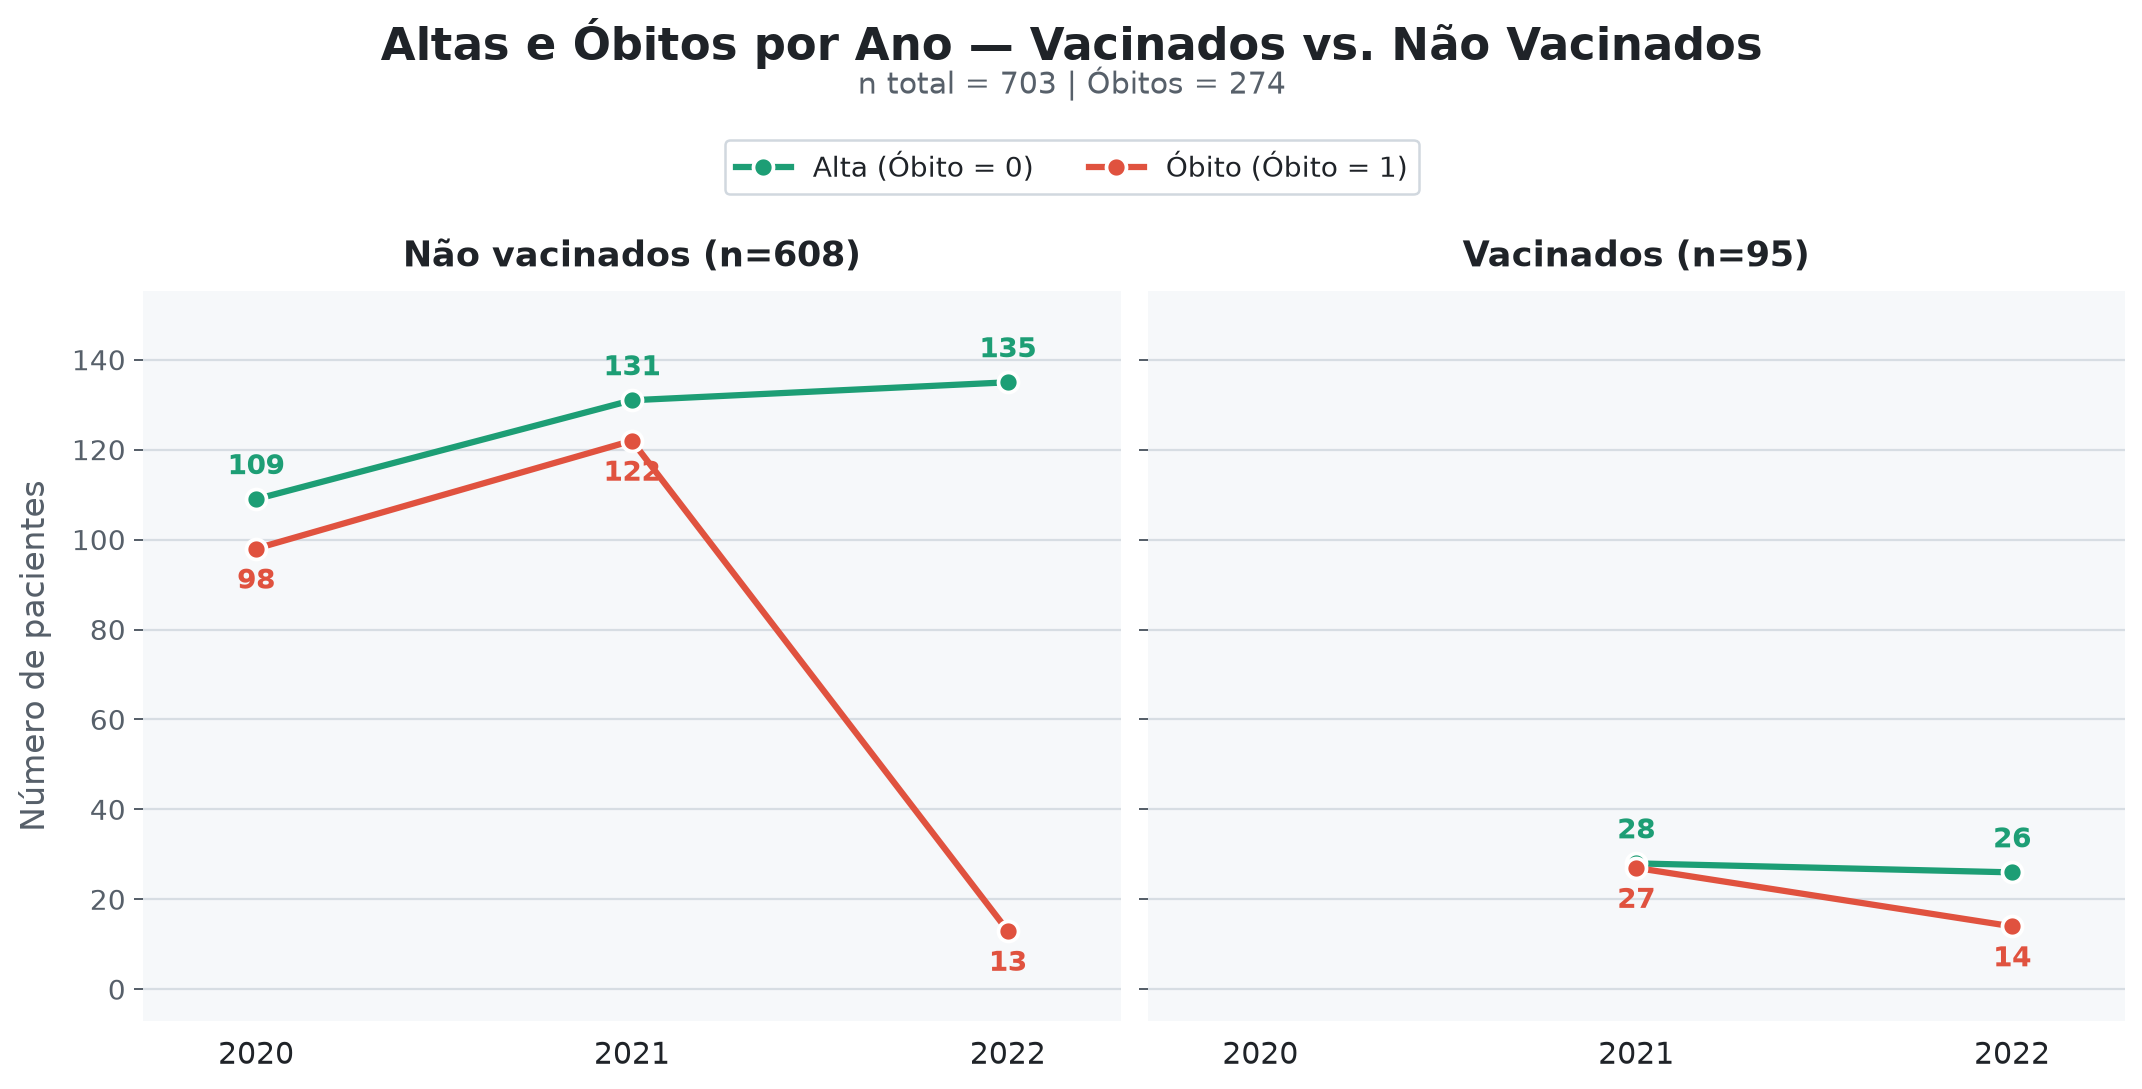
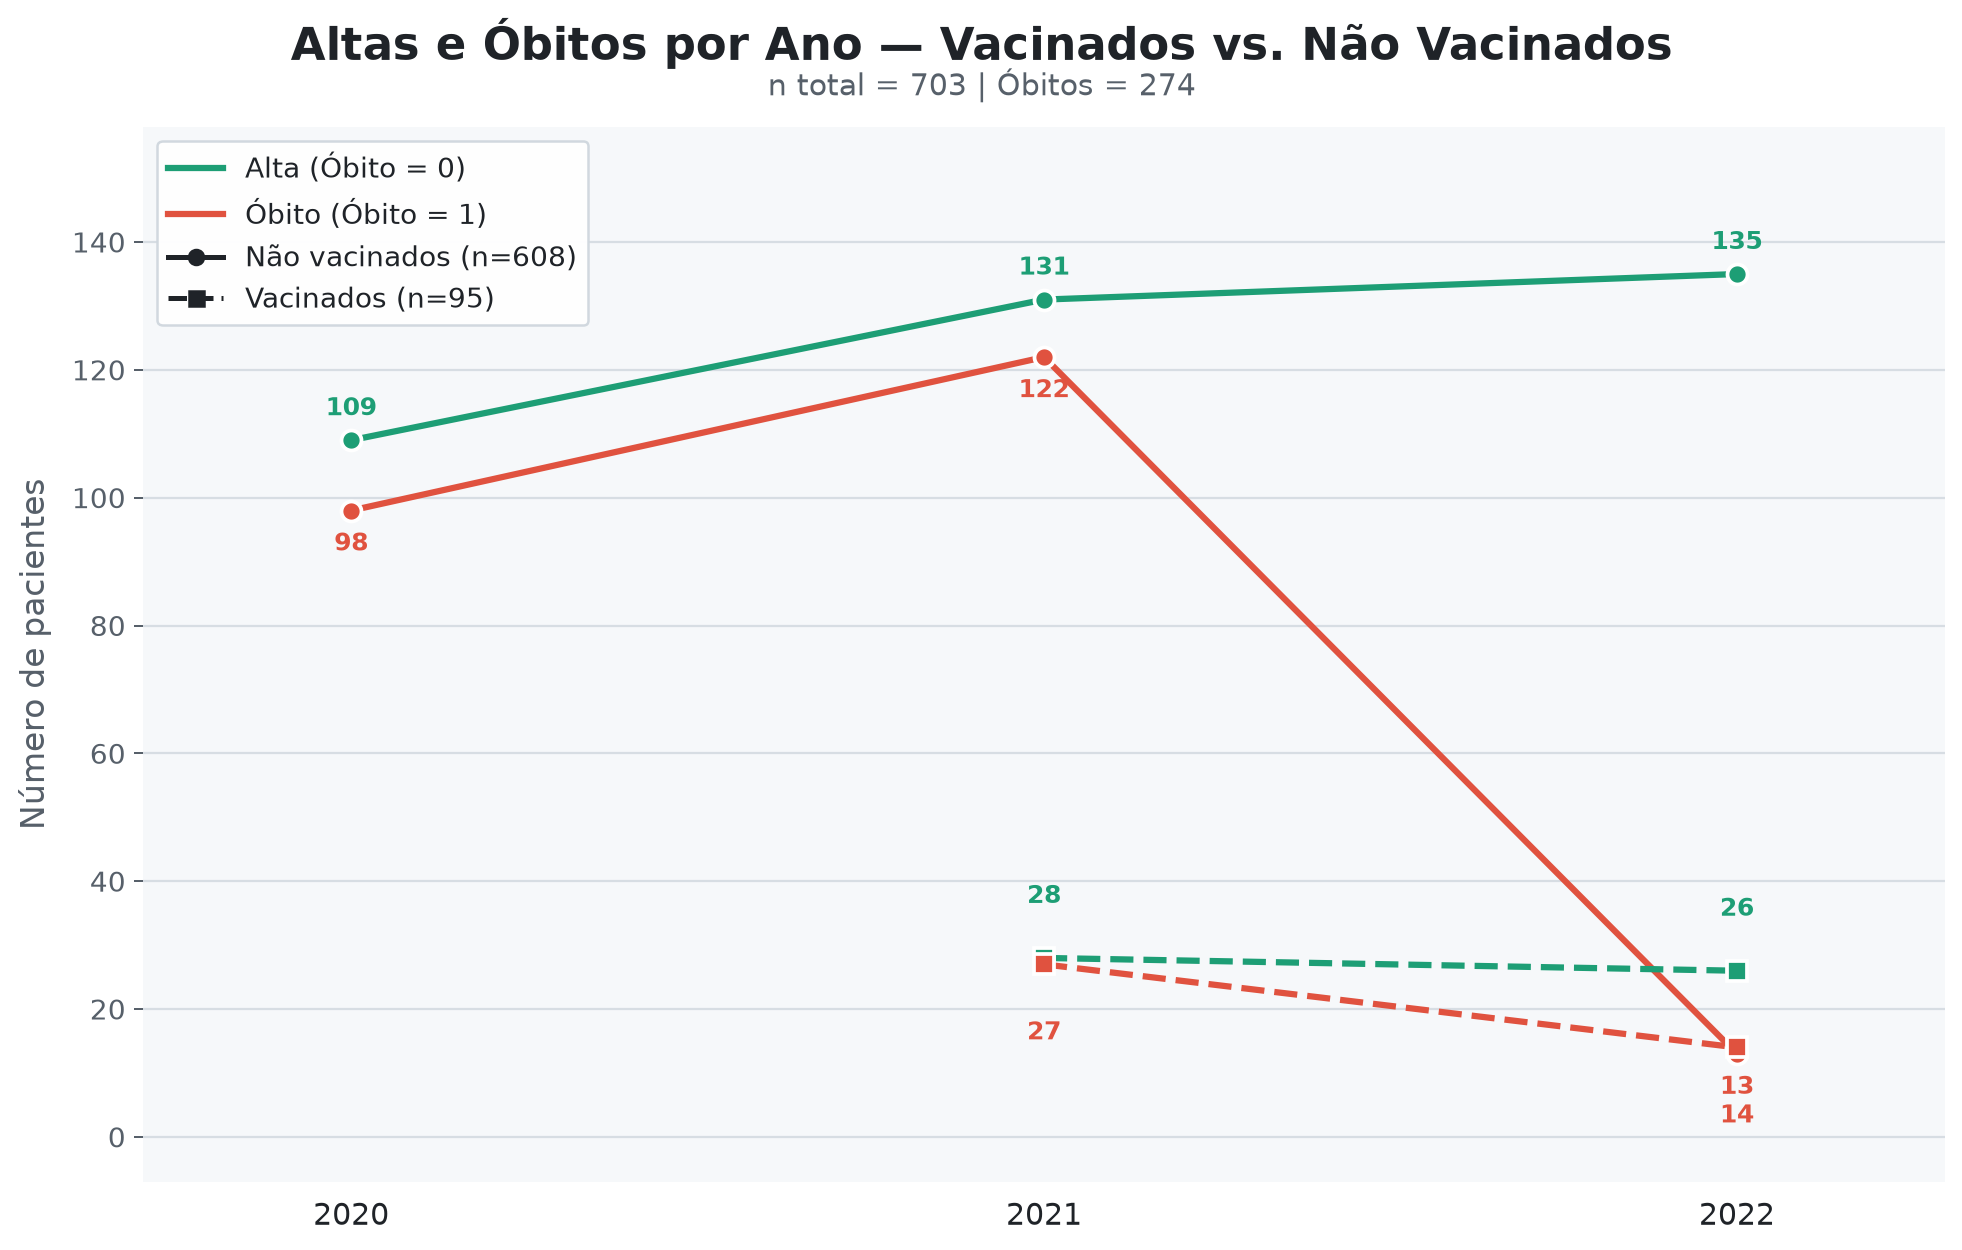
Merge vaccination/dose year line charts into single panels
Replaces the small-multiple layout with one panel per chart: color
encodes outcome (alta/óbito) and line style/marker encodes the
vaccination group or dose count, so all series are visible together.

Claude-Session: https://claude.ai/code/session_01XH5oXC7ooCrnQVbPhtjYiY

diff --git a/17_lineplot_ano_doses.py b/17_lineplot_ano_doses.py
@@ -3,6 +3,7 @@ import os
 import pandas as pd
 import matplotlib.pyplot as plt
 import matplotlib.ticker as mticker
+from matplotlib.lines import Line2D
 
 # ─────────────────────────────────────────────────────────────────────────
 XLSX_PATH = "703pacientes.xlsx"
@@ -11,6 +12,14 @@ OUTPUT_PNG = os.path.join(os.path.dirname(os.path.abspath(__file__)),
 
 DOSE_LABELS = {0: "Nenhuma dose", 1: "1 dose", 2: "2 doses",
                3: "3 doses", 4: "4 doses"}
+# Estilo de linha/marcador por número de doses (a cor identifica o desfecho)
+DOSE_ESTILO = {
+    0: {"linestyle": "-", "marker": "o"},
+    1: {"linestyle": "--", "marker": "s"},
+    2: {"linestyle": ":", "marker": "^"},
+    3: {"linestyle": "-.", "marker": "D"},
+    4: {"linestyle": (0, (3, 1, 1, 1)), "marker": "v"},
+}
 
 # ── Paleta ────────────────────────────────────────────────────────────────
 BG = "#FFFFFF"
@@ -32,13 +41,16 @@ n_obitos = int(dados["Óbito"].sum())
 anos_todos = sorted(dados["Ano"].unique())
 
 # ════════════════════════════════════════════════════════════
-# 2. GRÁFICO EM PAINÉIS (pequenos múltiplos) — um por número de doses
+# 2. GRÁFICO ÚNICO — todas as combinações dose × desfecho
 # ════════════════════════════════════════════════════════════
-doses = sorted(DOSE_LABELS)
-fig, axes = plt.subplots(1, len(doses), figsize=(19, 6), facecolor=BG,
-                          sharey=True)
+fig, ax = plt.subplots(figsize=(12, 7.5), facecolor=BG)
+ax.set_facecolor(PANEL)
+ax.yaxis.grid(True, color=BORDER, linewidth=0.9, zorder=0, alpha=0.8)
+ax.set_axisbelow(True)
+for spine in ax.spines.values():
+    spine.set_visible(False)
 
-for ax, dose in zip(axes, doses):
+for dose in sorted(DOSE_LABELS):
     sub = dados[dados["Vacinas"] == dose]
     tab = sub.groupby(["Ano", "Óbito"]).size().unstack(fill_value=0)
     anos_com_dados = sorted(sub["Ano"].unique())
@@ -47,51 +59,55 @@ for ax, dose in zip(axes, doses):
     x = tab.index.tolist()
     alta = tab.get(0, pd.Series(0, index=tab.index))
     obito = tab.get(1, pd.Series(0, index=tab.index))
+    estilo = DOSE_ESTILO[dose]
 
-    ax.set_facecolor(PANEL)
-    ax.yaxis.grid(True, color=BORDER, linewidth=0.9, zorder=0, alpha=0.8)
-    ax.set_axisbelow(True)
-    for spine in ax.spines.values():
-        spine.set_visible(False)
+    ax.plot(x, alta, color=COR_ALTA, linewidth=2.2, markersize=7,
+            markerfacecolor=COR_ALTA, markeredgecolor=BG, markeredgewidth=1.3,
+            zorder=3, alpha=0.9, **estilo)
+    ax.plot(x, obito, color=COR_OBITO, linewidth=2.2, markersize=7,
+            markerfacecolor=COR_OBITO, markeredgecolor=BG, markeredgewidth=1.3,
+            zorder=3, alpha=0.9, **estilo)
 
-    ax.plot(x, alta, color=COR_ALTA, linewidth=2.5, marker="o", markersize=8,
-            markerfacecolor=COR_ALTA, markeredgecolor=BG, markeredgewidth=1.5,
-            zorder=3, label="Alta (Óbito = 0)")
-    ax.plot(x, obito, color=COR_OBITO, linewidth=2.5, marker="o", markersize=8,
-            markerfacecolor=COR_OBITO, markeredgecolor=BG, markeredgewidth=1.5,
-            zorder=3, label="Óbito (Óbito = 1)")
+    # Rótulos apenas no último ponto de cada série (10 séries deixariam o
+    # gráfico ilegível se todos os pontos fossem anotados)
+    ax.annotate(str(alta.iloc[-1]), (x[-1], alta.iloc[-1]),
+                textcoords="offset points", xytext=(8, 0), va="center",
+                ha="left", fontsize=9, color=COR_ALTA, fontweight="bold")
+    ax.annotate(str(obito.iloc[-1]), (x[-1], obito.iloc[-1]),
+                textcoords="offset points", xytext=(8, 0), va="center",
+                ha="left", fontsize=9, color=COR_OBITO, fontweight="bold")
 
-    for xi, a, o in zip(x, alta, obito):
-        ax.annotate(str(a), (xi, a), textcoords="offset points", xytext=(0, 10),
-                    ha="center", fontsize=10, color=COR_ALTA, fontweight="bold")
-        ax.annotate(str(o), (xi, o), textcoords="offset points", xytext=(0, -16),
-                    ha="center", fontsize=10, color=COR_OBITO, fontweight="bold")
+ax.set_xticks(anos_todos)
+ax.set_xticklabels([str(a) for a in anos_todos], fontsize=12, color=TEXT)
+ax.set_xlim(min(anos_todos) - 0.3, max(anos_todos) + 0.6)
+ax.tick_params(axis="y", colors=SUBTEXT, labelsize=11)
+ax.tick_params(axis="x", length=0, pad=8)
+ax.yaxis.set_major_locator(mticker.MaxNLocator(integer=True))
+ax.set_ylabel("Número de pacientes", fontsize=13, color=SUBTEXT, labelpad=8)
+ymin, ymax = ax.get_ylim()
+ax.set_ylim(-ymax * 0.05, ymax * 1.15)
 
-    ax.set_xticks(anos_todos)
-    ax.set_xticklabels([str(a) for a in anos_todos], fontsize=11, color=TEXT)
-    ax.set_xlim(min(anos_todos) - 0.3, max(anos_todos) + 0.3)
-    ax.tick_params(axis="y", colors=SUBTEXT, labelsize=11)
-    ax.tick_params(axis="x", length=0, pad=8)
-    ax.yaxis.set_major_locator(mticker.MaxNLocator(integer=True))
-    ax.set_title(f"{DOSE_LABELS[dose]}\n(n={len(sub)})", fontsize=13,
-                 fontweight="bold", color=TEXT, pad=10)
+# Legenda: cor = desfecho, estilo de linha/marcador = número de doses
+legend_elements = [
+    Line2D([0], [0], color=COR_ALTA, lw=2.5, label="Alta (Óbito = 0)"),
+    Line2D([0], [0], color=COR_OBITO, lw=2.5, label="Óbito (Óbito = 1)"),
+]
+for dose in sorted(DOSE_LABELS):
+    n = int((dados["Vacinas"] == dose).sum())
+    legend_elements.append(
+        Line2D([0], [0], color=TEXT, lw=1.8, label=f"{DOSE_LABELS[dose]} (n={n})",
+               **DOSE_ESTILO[dose]))
 
-axes[0].set_ylabel("Número de pacientes", fontsize=13, color=SUBTEXT, labelpad=8)
-ymax = axes[0].get_ylim()[1]
-for ax in axes:
-    ax.set_ylim(-ymax * 0.05, ymax * 1.1)
+ax.legend(handles=legend_elements, fontsize=10, frameon=True, edgecolor=BORDER,
+          facecolor=BG, labelcolor=TEXT, loc="upper left", framealpha=0.97,
+          ncol=1)
 
-handles, legend_labels = axes[0].get_legend_handles_labels()
-fig.legend(handles, legend_labels, fontsize=11, frameon=True, edgecolor=BORDER,
-           facecolor=BG, labelcolor=TEXT, loc="upper center", ncol=2,
-           bbox_to_anchor=(0.5, 0.88), framealpha=0.97)
-
-fig.text(0.5, 1.0, "Altas e Óbitos por Ano — Número de Doses de Vacina",
+fig.text(0.5, 0.985, "Altas e Óbitos por Ano — Número de Doses de Vacina",
           ha="center", va="top", fontsize=18, fontweight="bold", color=TEXT)
-fig.text(0.5, 0.955, f"n total = {n_total} | Óbitos = {n_obitos}",
+fig.text(0.5, 0.95, f"n total = {n_total} | Óbitos = {n_obitos}",
           ha="center", va="top", fontsize=12, color=SUBTEXT)
 
-plt.tight_layout(rect=[0, 0, 1, 0.80])
+plt.tight_layout(rect=[0, 0, 1, 0.92])
 plt.savefig(OUTPUT_PNG, dpi=180, bbox_inches="tight", facecolor=BG)
 print(f"Gráfico salvo em: {OUTPUT_PNG}")
 plt.show()

diff --git a/16_lineplot_ano_vacinado.py b/16_lineplot_ano_vacinado.py
@@ -3,6 +3,7 @@ import os
 import pandas as pd
 import matplotlib.pyplot as plt
 import matplotlib.ticker as mticker
+from matplotlib.lines import Line2D
 
 # ─────────────────────────────────────────────────────────────────────────
 XLSX_PATH = "703pacientes.xlsx"
@@ -10,6 +11,8 @@ OUTPUT_PNG = os.path.join(os.path.dirname(os.path.abspath(__file__)),
                           "lineplot_ano_vacinado.png")
 
 GRUPO_LABELS = {0: "Não vacinados", 1: "Vacinados"}
+GRUPO_ESTILO = {0: {"linestyle": "-", "marker": "o"},
+                1: {"linestyle": "--", "marker": "s"}}
 
 # ── Paleta ────────────────────────────────────────────────────────────────
 BG = "#FFFFFF"
@@ -31,67 +34,71 @@ n_obitos = int(dados["Óbito"].sum())
 anos_todos = sorted(dados["Ano"].unique())
 
 # ════════════════════════════════════════════════════════════
-# 2. GRÁFICO EM PAINÉIS (pequenos múltiplos) — um por grupo de vacinação
+# 2. GRÁFICO ÚNICO — todas as combinações grupo × desfecho
 # ════════════════════════════════════════════════════════════
-grupos = sorted(GRUPO_LABELS)
-fig, axes = plt.subplots(1, len(grupos), figsize=(12, 6), facecolor=BG,
-                          sharey=True)
+fig, ax = plt.subplots(figsize=(11, 7), facecolor=BG)
+ax.set_facecolor(PANEL)
+ax.yaxis.grid(True, color=BORDER, linewidth=0.9, zorder=0, alpha=0.8)
+ax.set_axisbelow(True)
+for spine in ax.spines.values():
+    spine.set_visible(False)
 
-for ax, grupo in zip(axes, grupos):
+for grupo in sorted(GRUPO_LABELS):
     sub = dados[dados["Vacinado"] == grupo]
     tab = sub.groupby(["Ano", "Óbito"]).size().unstack(fill_value=0)
-    tab = tab.reindex(anos_todos, fill_value=0)
-    anos_com_dados = sub["Ano"].unique()
-    tab = tab.loc[tab.index.isin(anos_com_dados) | (tab.sum(axis=1) > 0)]
+    anos_com_dados = sorted(sub["Ano"].unique())
+    tab = tab.reindex(anos_com_dados, fill_value=0)
 
     x = tab.index.tolist()
     alta = tab.get(0, pd.Series(0, index=tab.index))
     obito = tab.get(1, pd.Series(0, index=tab.index))
+    estilo = GRUPO_ESTILO[grupo]
 
-    ax.set_facecolor(PANEL)
-    ax.yaxis.grid(True, color=BORDER, linewidth=0.9, zorder=0, alpha=0.8)
-    ax.set_axisbelow(True)
-    for spine in ax.spines.values():
-        spine.set_visible(False)
-
-    ax.plot(x, alta, color=COR_ALTA, linewidth=2.5, marker="o", markersize=8,
+    ax.plot(x, alta, color=COR_ALTA, linewidth=2.5, markersize=8,
             markerfacecolor=COR_ALTA, markeredgecolor=BG, markeredgewidth=1.5,
-            zorder=3, label="Alta (Óbito = 0)")
-    ax.plot(x, obito, color=COR_OBITO, linewidth=2.5, marker="o", markersize=8,
+            zorder=3, **estilo)
+    ax.plot(x, obito, color=COR_OBITO, linewidth=2.5, markersize=8,
             markerfacecolor=COR_OBITO, markeredgecolor=BG, markeredgewidth=1.5,
-            zorder=3, label="Óbito (Óbito = 1)")
+            zorder=3, **estilo)
 
+    dy_alta = 10 if grupo == 0 else 22
+    dy_obito = -16 if grupo == 0 else -30
     for xi, a, o in zip(x, alta, obito):
-        ax.annotate(str(a), (xi, a), textcoords="offset points", xytext=(0, 10),
-                    ha="center", fontsize=11, color=COR_ALTA, fontweight="bold")
-        ax.annotate(str(o), (xi, o), textcoords="offset points", xytext=(0, -16),
-                    ha="center", fontsize=11, color=COR_OBITO, fontweight="bold")
+        ax.annotate(str(a), (xi, a), textcoords="offset points",
+                    xytext=(0, dy_alta), ha="center", fontsize=10,
+                    color=COR_ALTA, fontweight="bold")
+        ax.annotate(str(o), (xi, o), textcoords="offset points",
+                    xytext=(0, dy_obito), ha="center", fontsize=10,
+                    color=COR_OBITO, fontweight="bold")
 
-    ax.set_xticks(anos_todos)
-    ax.set_xticklabels([str(a) for a in anos_todos], fontsize=12, color=TEXT)
-    ax.set_xlim(min(anos_todos) - 0.3, max(anos_todos) + 0.3)
-    ax.tick_params(axis="y", colors=SUBTEXT, labelsize=11)
-    ax.tick_params(axis="x", length=0, pad=8)
-    ax.yaxis.set_major_locator(mticker.MaxNLocator(integer=True))
-    ax.set_title(f"{GRUPO_LABELS[grupo]} (n={len(sub)})", fontsize=14,
-                 fontweight="bold", color=TEXT, pad=10)
+ax.set_xticks(anos_todos)
+ax.set_xticklabels([str(a) for a in anos_todos], fontsize=12, color=TEXT)
+ax.set_xlim(min(anos_todos) - 0.3, max(anos_todos) + 0.3)
+ax.tick_params(axis="y", colors=SUBTEXT, labelsize=11)
+ax.tick_params(axis="x", length=0, pad=8)
+ax.yaxis.set_major_locator(mticker.MaxNLocator(integer=True))
+ax.set_ylabel("Número de pacientes", fontsize=13, color=SUBTEXT, labelpad=8)
+ymin, ymax = ax.get_ylim()
+ax.set_ylim(-ymax * 0.05, ymax * 1.12)
 
-axes[0].set_ylabel("Número de pacientes", fontsize=13, color=SUBTEXT, labelpad=8)
-ymax = axes[0].get_ylim()[1]
-for ax in axes:
-    ax.set_ylim(-ymax * 0.05, ymax * 1.1)
+# Legenda: cor = desfecho, estilo de linha/marcador = grupo de vacinação
+legend_elements = [
+    Line2D([0], [0], color=COR_ALTA, lw=2.5, label="Alta (Óbito = 0)"),
+    Line2D([0], [0], color=COR_OBITO, lw=2.5, label="Óbito (Óbito = 1)"),
+    Line2D([0], [0], color=TEXT, lw=2, linestyle="-", marker="o",
+           label=f"Não vacinados (n={(dados['Vacinado'] == 0).sum()})"),
+    Line2D([0], [0], color=TEXT, lw=2, linestyle="--", marker="s",
+           label=f"Vacinados (n={(dados['Vacinado'] == 1).sum()})"),
+]
+ax.legend(handles=legend_elements, fontsize=11, frameon=True, edgecolor=BORDER,
+          facecolor=BG, labelcolor=TEXT, loc="upper left", framealpha=0.97)
 
-handles, legend_labels = axes[0].get_legend_handles_labels()
-fig.legend(handles, legend_labels, fontsize=11, frameon=True, edgecolor=BORDER,
-           facecolor=BG, labelcolor=TEXT, loc="upper center", ncol=2,
-           bbox_to_anchor=(0.5, 0.90), framealpha=0.97)
-
-fig.text(0.5, 1.0, "Altas e Óbitos por Ano — Vacinados vs. Não Vacinados",
+fig.text(0.5, 0.985, "Altas e Óbitos por Ano — Vacinados vs. Não Vacinados",
           ha="center", va="top", fontsize=18, fontweight="bold", color=TEXT)
-fig.text(0.5, 0.955, f"n total = {n_total} | Óbitos = {n_obitos}",
+fig.text(0.5, 0.945, f"n total = {n_total} | Óbitos = {n_obitos}",
           ha="center", va="top", fontsize=12, color=SUBTEXT)
 
-plt.tight_layout(rect=[0, 0, 1, 0.82])
+plt.tight_layout(rect=[0, 0, 1, 0.92])
 plt.savefig(OUTPUT_PNG, dpi=180, bbox_inches="tight", facecolor=BG)
 print(f"Gráfico salvo em: {OUTPUT_PNG}")
 plt.show()
